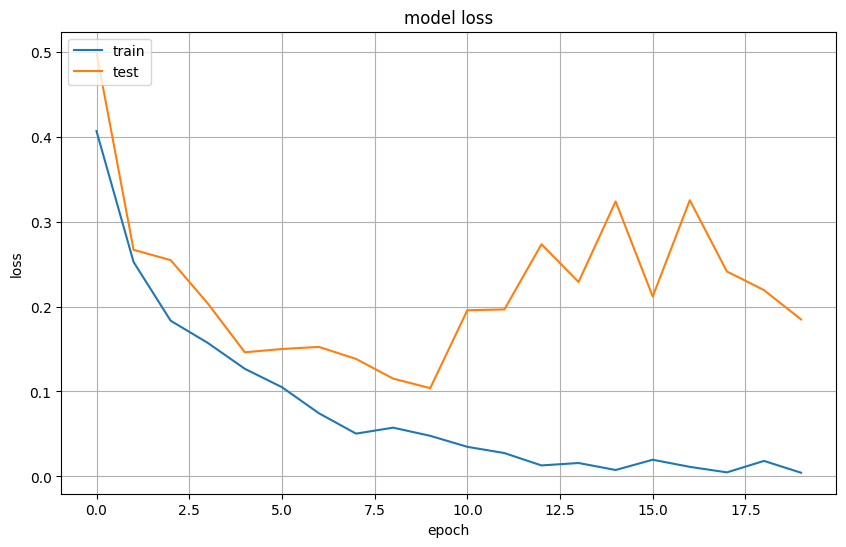
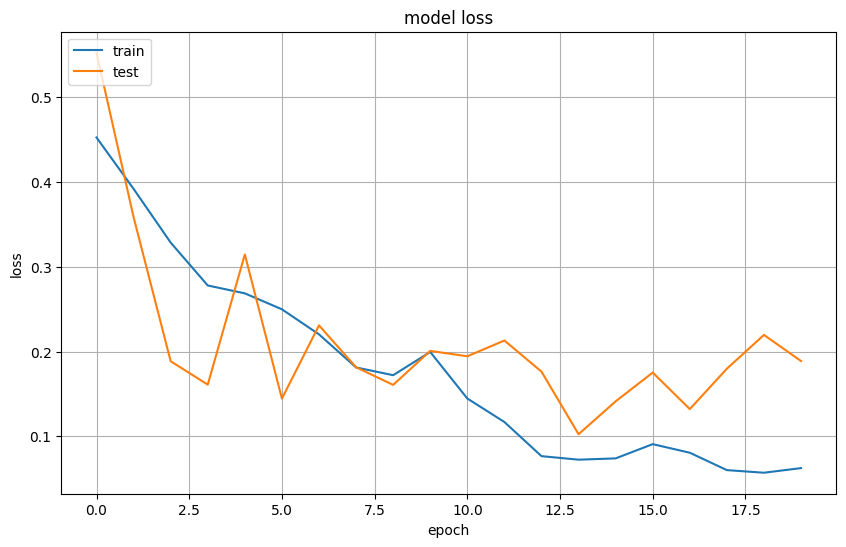
v8

diff --git a/dataGenerator.py b/dataGenerator.py
@@ -1,9 +1,10 @@
 from tensorflow.keras.utils import Sequence, to_categorical
-
+from tensorflow.keras.preprocessing.image import apply_affine_transform
 import numpy as np
 import os
 from time import time
 import cv2
+import random
 
 class DataGenerator(Sequence):
     """Data Generator inherited from keras.utils.Sequence
@@ -126,9 +127,12 @@ class DataGenerator(Sequence):
         start_point = np.random.randint(len(video)-target_frames)
         return video[start_point:start_point+target_frames]
             
-    def color_jitter(self,video):
+    def color_jitter(self,video,prob=0.5):
         # range of s-component: 0-1
         # range of v component: 0-255
+        s = np.random.rand()
+        if s > prob:
+            return video
         s_jitter = np.random.uniform(-0.2,0.2)
         v_jitter = np.random.uniform(-30,30)
         for i in range(len(video)):
@@ -143,7 +147,96 @@ class DataGenerator(Sequence):
             hsv[...,2] = v
             video[i] = cv2.cvtColor(hsv, cv2.COLOR_HSV2RGB)
         return video
-        
+
+
+    def crop_corner(self, video ,prob=0.5):
+        s = np.random.rand()
+        if s > prob:
+            return video
+        frame_size = np.size(video, axis = 1)
+        corner_keys = ["Left_up","Right_down","Right_up","Left_down","Center"]
+        corner = random.choice(corner_keys)
+        percentages = [.8,.9,.7]
+        percentage = random.choice(percentages)
+        resize = int(frame_size*percentage)
+        if(corner =="Left_up"):
+            x_start = 0
+            x_end = resize
+            y_start = 0
+            y_end = resize
+        if (corner == "Right_down"):
+            x_start = frame_size-resize
+            x_end = frame_size
+            y_start = frame_size-resize
+            y_end = frame_size
+        if(corner =="Right_up"):
+            x_start = 0
+            x_end = resize
+            y_start = frame_size-resize
+            y_end = frame_size
+        if (corner == "Left_down"):
+            x_start = frame_size-resize
+            x_end = frame_size
+            y_start = 0
+            y_end = resize
+        if (corner == "Center"):
+            half = int(frame_size*(1-percentage))
+            x_start = half
+            x_end = frame_size-half
+            y_start = half
+            y_end = frame_size-half
+        out = []
+        for i in range(np.shape(video)[0]):
+            img = cv2.resize(video[i,y_start:y_end,x_start:x_end, :], (frame_size, frame_size)).astype(np.float32)
+            out.append(img)
+        return np.array(out)
+
+
+    def random_shear(self, video, intensity, prob = 0.5, row_axis=0, col_axis=1, channel_axis=2,
+                    fill_mode='nearest', cval=0., interpolation_order=1):
+        s = np.random.rand()
+        if s > prob:
+            return video
+        shear = np.random.uniform(-intensity, intensity)
+        out = []
+        for i in range(np.shape(video)[0]):
+            x = apply_affine_transform(video[i,:,:,:], shear=shear, channel_axis=channel_axis,
+                                fill_mode=fill_mode, cval=cval,
+                                order=interpolation_order)
+            out.append(x)
+        return np.array(out)
+    
+
+    def random_shift(self ,video, wrg, hrg, prob =0.5,row_axis=0, col_axis=1, channel_axis=2,
+                    fill_mode='nearest', cval=0., interpolation_order=1):
+        s = np.random.rand()
+        if s > prob:
+            return video        
+        h, w = video.shape[1], video.shape[2]
+        tx = np.random.uniform(-hrg, hrg) * h
+        ty = np.random.uniform(-wrg, wrg) * w
+        out = []
+        for i in range(np.shape(video)[0]):
+            x = apply_affine_transform(video[i,:,:,:], tx=tx, ty=ty, channel_axis=channel_axis,
+                                fill_mode=fill_mode, cval=cval,
+                                order=interpolation_order)
+            out.append(x)
+        return np.array(out)
+
+    def random_rotation(self, video, rg, prob =0.5,row_axis=0, col_axis=1, channel_axis=2,
+                    fill_mode='nearest', cval=0., interpolation_order=1):
+        s = np.random.rand()
+        if s > prob:
+            return video        
+        theta = np.random.uniform(-rg,rg)
+        out = []
+        for i in range(np.shape(video)[0]):
+            x = apply_affine_transform(video[i,:,:,:], theta=theta, channel_axis=channel_axis,
+                                fill_mode=fill_mode, cval=cval,
+                                order=interpolation_order)
+            out.append(x)
+        return np.array(out)
+
     def load_data(self, path):
         # load the processed .npy files which have 5 channels (1-3 for RGB, 4-5 for optical flows)
         data = np.load(path, mmap_mode='r')
@@ -152,11 +245,14 @@ class DataGenerator(Sequence):
         data = self.uniform_sampling(video=data, target_frames=self.target_frames)
         # whether to utilize the data augmentation
         if  self.data_aug:
-            data[...,:3] = self.color_jitter(data[...,:3])
-            data = self.random_flip(data, prob=0.5)
+            data = self.color_jitter(data, prob=1)
+            data = self.random_flip(data, prob=1)
+            data = self.crop_corner(data, prob=1)
+            data = self.random_shift(data, wrg = .2, hrg= .2, prob = 1)
+            data = self.random_shear(data,intensity=10,prob=1)
+            data = self.random_rotation(data, rg=15, prob=1)
         # normalize rgb images 
-        data[...,:3] = self.normalize(data[...,:3])
-        #data[...,3:] = self.normalize(data[...,3:])
+        data = self.normalize(data)
         return data
 
 

diff --git a/utils.py b/utils.py
@@ -1,15 +1,16 @@
 import matplotlib.pyplot as plt
 import pandas as pd
 import shutil
+import numpy as np 
+import pickle
 
 def save_plot_history(history, save_path,split_num=0):
     
-    historyInDrivePath = save_path + 'split_'+ str(split_num) +'_history.csv'
+    historyInDrivePath = save_path + '_split_'+ str(split_num) +'_history.csv'
     pd.DataFrame(history).to_csv(historyInDrivePath) #gdrive
     pd.DataFrame(history).to_csv('split_'+str(split_num)+'_history.csv')  #local
 
     print('plotting and saving train test graphs...')
-    #print(history.keys())
     # summarize history for accuracy
     plt.figure(figsize=(10, 6))
     plt.plot(history['acc'])
@@ -21,9 +22,6 @@ def save_plot_history(history, save_path,split_num=0):
     plt.grid(True)
     plt.savefig('split_'+str(split_num)+'_accuracy.png',bbox_inches='tight') #local
     plt.savefig(save_path+'accuracy.png',bbox_inches='tight') #gdrive
-    
-
-    
     # summarize history for loss
     plt.figure(figsize=(10, 6))
     plt.plot(history['loss'])
@@ -35,6 +33,55 @@ def save_plot_history(history, save_path,split_num=0):
     plt.grid(True)
     plt.savefig('split_'+str(split_num)+'_loss.png',bbox_inches='tight')  #local
     plt.savefig(save_path+'loss.png',bbox_inches='tight')  #gdrive
+
+
+def save_history_as_pickle(file_, path_, dataset_):
+    local_path = str(dataset_) + '_historyOnEachSplit.pickle'
+    drive_path = path_ + '_historyOnEachSplit.pickle'
+    try:
+        with open(local_path, 'wb') as fp:
+            pickle.dump(file_, fp)
+        print('saved', local_path)
+        with open(drive_path, 'wb') as fp:
+            pickle.dump(drive_path, fp)
+        print('saved', drive_path)
+    except Exception as e:
+        print(e)
+
+
+def evaluate_accuracy_method1(file_):
+    test_acc = []
+    for history in file_:
+        test_acc_fold = history['val_acc']
+        test_acc_fold = np.array(test_acc_fold,dtype=np.float32)
+        test_acc.append(test_acc_fold)
+    test_acc =  np.array(test_acc)
+    mean_acc =  np.mean(test_acc,axis=0)
+    print('--------------------------------------------')
+    print('accuracy_evaluation_method_1 : ')
+    epoch_index = np.argmax(mean_acc)
+    max_mean_acc = np.max(mean_acc)
+    print( 'max mean accuracy :',max_mean_acc, '_epoch :', (epoch_index + 1) )
+    start_index = max( epoch_index-10 , 0 )
+    end_index = min( epoch_index+10 , np.size(mean_acc)-1 )
+    hundred_acc = test_acc[:,start_index:end_index]
+    print('final accuracy :',np.mean(hundred_acc),'±',np.std(hundred_acc))
+    print('--------------------------------------------')
+
+def evaluate_accuracy_method2(file_):
+    test_acc = []
+    for history in file_:
+        test_acc_fold = history['val_acc']
+        test_acc_fold = np.array(test_acc_fold,dtype=np.float32)
+        test_acc.append(test_acc_fold)
+    test_acc = np.array(test_acc)
+    print('--------------------------------------------')
+    print("accuracy_evaluation_method_2 : (Sudhakaran's method)")
+    max_test_acc_fold = np.max(test_acc,axis=1)
+    print('max accuracy per fold : ',max_test_acc_fold)
+    print('final accuracy :',np.mean(max_test_acc_fold),'±',np.std(max_test_acc_fold))
+    print('--------------------------------------------')
+
 
 
 

diff --git a/violenceDetection5Fold.py b/violenceDetection5Fold.py
@@ -17,18 +17,19 @@ import shutil
 import pickle
 
 dataset = 'hockey'
-dataset_videos = {'hockey':'raw_videos/hockey','movies':'raw_videos/movies'}
+dataset_videos = {'hockey':'raw_videos/HockeyFights','movies':'raw_videos/movies'}
 crop_dark = {
-    hocky = (16,45),
-    movies = (18,48)
+    'hockey' : (16,45),
+    'movies' : (18,48)
 }
 
 batch_size = 4   #2
 vid_len = 20   #10
 frame_size = 224
 
+savePath = '/gdrive/My Drive/THESIS/Data/' + str(dataset)
 bestModelPath = '/gdrive/My Drive/THESIS/Data/' + str(dataset) + '_bestModel.h5'
-epochs = 50
+epochs = 1
 
 
 
@@ -38,13 +39,13 @@ split_num = 0
 
 for split in splits:
     split_num += 1
-    if os.path.exist('/{}'.format(dataset)):
-        shutil.rmtree('/{}'.format(dataset))
+    if os.path.exists('{}'.format(dataset)):
+        shutil.rmtree('{}'.format(dataset))
     os.mkdir(dataset)
     os.mkdir(os.path.join(dataset,'videos'))    
-    move_train_test(dest='/{}/videos'.format(dataset),data=split)
+    move_train_test(dest='{}/videos'.format(dataset),data=split)
     os.mkdir(os.path.join(dataset,'processed'))
-    convert_dataset_to_npy(src='/{}/videos'.format(dataset),dest='/{}/processed'.format(dataset),crop_x_y=crop_dark[dataset])
+    convert_dataset_to_npy(src='{}/videos'.format(dataset),dest='{}/processed'.format(dataset),crop_x_y=crop_dark[dataset])
     
     train_generator = DataGenerator(directory='{}/processed/train'.format(dataset), 
                                         batch_size=batch_size, 
@@ -64,9 +65,9 @@ for split in splits:
     print('new model created')
     print(model.summary())
 
-    optimizer = RMSprop(lr=7e-05)
+    optimizer = RMSprop(lr=5e-05)
     model.compile(optimizer=optimizer, loss='binary_crossentropy',metrics=['acc'])
-    modelcheckpoint = ModelCheckpoint(bestModelPath, monitor='val_loss', verbose=1, save_best_only=True, mode='auto', period=1)    
+    modelcheckpoint = ModelCheckpoint(bestModelPath, monitor='val_loss', verbose=1, save_best_only=True, mode='auto', save_freq='epoch')    
 
     history = model.fit(
         steps_per_epoch=len(train_generator),
@@ -85,14 +86,10 @@ for split in splits:
         )
     history_to_save = history.history
     history_on_each_split.append(history_to_save)
-    savePath = '/gdrive/My Drive/THESIS/Data/' + str(dataset)
     save_plot_history(history=history_to_save, save_path= savePath,split_num=split_num)
     
 
-historyFile = str(dataset) + '_historyOnEachSplit.pickle'
-try:
-    file_ = open(historyFile, 'wb')
-    pickle.dump(history_on_each_split, file_)
-    print('saved', historyFile)
-except Exception as e:
-    print(e)
+save_history_as_pickle(file_=history_on_each_split, path_=savePath, dataset_=dataset)
+
+evaluate_accuracy_method1(file_=history_on_each_split)
+evaluate_accuracy_method2(file_=history_on_each_split)

diff --git a/violenceDetection.py b/violenceDetection.py
@@ -68,7 +68,7 @@ else:
     print('got the model')
 print(model.summary())
 
-optimizer = RMSprop(lr=7e-05)
+optimizer = Adam(lr=8e-05)
 model.compile(optimizer=optimizer, loss='binary_crossentropy',metrics=['acc'])
 modelcheckpoint = ModelCheckpoint(bestModelPath, monitor='val_loss', verbose=1, save_best_only=True, mode='auto', save_freq='epoch')    
 
@@ -83,7 +83,7 @@ history = model.fit(
         max_queue_size= 8,
         use_multiprocessing = False,
         callbacks=[EarlyStopping(monitor='val_loss', min_delta=0.001, patience=15 ),
-                   #ReduceLROnPlateau(monitor='val_loss', factor=0.5, patience=3, min_lr=1e-8, verbose=1),
+                   ReduceLROnPlateau(monitor='val_loss', factor=0.5, patience=5, min_lr=1e-8, verbose=1),
                    modelcheckpoint
                    ]
         )

diff --git a/test.py b/test.py
@@ -1,0 +1,23 @@
+import numpy as np
+from utils import evaluate_accuracy_method1, evaluate_accuracy_method2
+
+a = np.arange(10,130,3)
+b = np.arange(70,-10,-2)
+c = np.arange(140,20,-3)
+
+history_list= []
+history = {'val_acc':a}
+history_list.append(history)
+history = {'val_acc':b}
+history_list.append(history)
+history = {'val_acc':c}
+history_list.append(history)
+history = {'val_acc':b}
+history_list.append(history)
+history = {'val_acc':a}
+history_list.append(history)
+
+#---------
+
+evaluate_accuracy_method1(file_=history_list)
+evaluate_accuracy_method2(file_=history_list)

diff --git a/sepConvLstmNet.py b/sepConvLstmNet.py
@@ -38,7 +38,7 @@ def getModel(size=224, seq_len=20 , cnn_weight=None, lstm_conf=None ):
     x = Dense(128,activation='relu')(x)
     x = Dropout(0.2)(x)
 
-    x = Dense(10,activation='relu')(x)
+    x = Dense(16,activation='relu')(x)
     x = Dropout(0.1)(x)
 
     activation = 'sigmoid'
